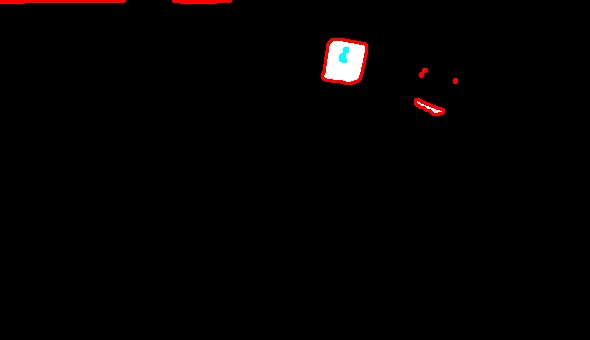
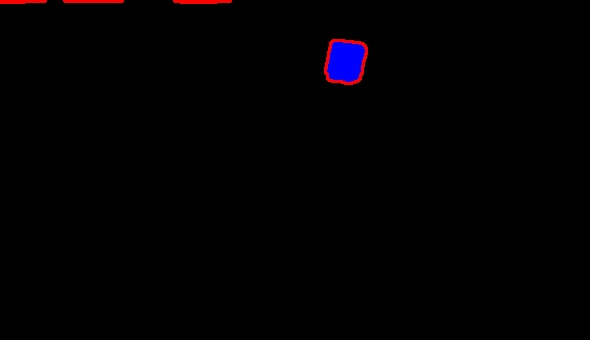
Pics added

diff --git a/Computer_vision/computerVision.py b/Computer_vision/computerVision.py
@@ -116,7 +116,7 @@ class computerVision:
         such that small holes are filled. Afterwards the 'blobs' are closed using a
         combination of dilate and erode
         """
-        ret,th1 = cv2.threshold(image,50,255,cv2.THRESH_BINARY)
+        ret,th1 = cv2.threshold(image,150,255,cv2.THRESH_BINARY)
         if debug: cv2.imwrite('debug_pics/threshold_binary.jpg',th1) #cv2.imshow('th1',th1)
         resdi = cv2.dilate(th1,np.ones((3,3),np.uint8))
         if debug: cv2.imwrite('debug_pics/dilated.jpg',resdi) #cv2.imshow('dilated',resdi)
